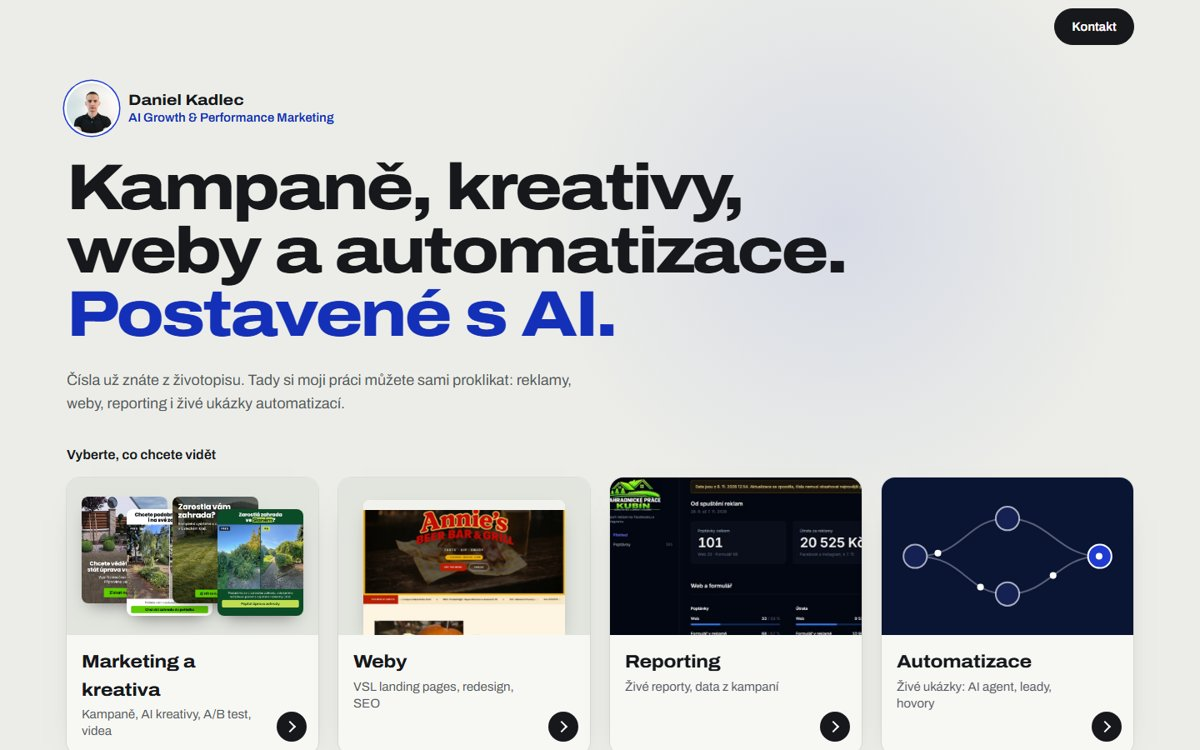
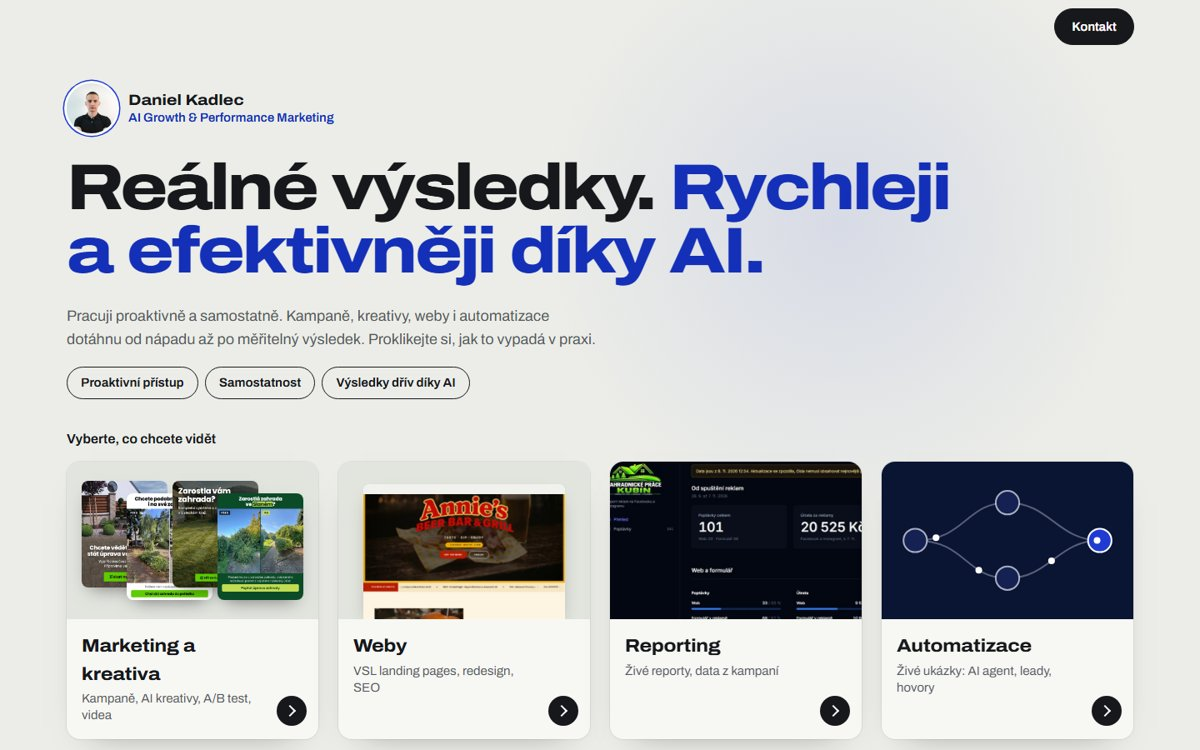
Novy uvod

diff --git a/index.html b/index.html
@@ -44,8 +44,13 @@
           <img class="person__img" src="assets/img/portret.webp" width="900" height="1252" alt="Daniel Kadlec" fetchpriority="high">
           <p><b>Daniel Kadlec</b><span>AI Growth &amp; Performance Marketing</span></p>
         </div>
-        <h1 class="hero-h" data-enter="2">Kampaně, kreativy, weby a automatizace. <span>Postavené s AI.</span></h1>
-        <p class="intro__lead" data-enter="3">Čísla už znáte z životopisu. Tady si moji práci můžete sami proklikat: reklamy, weby, reporting i živé ukázky automatizací.</p>
+        <h1 class="hero-h" data-enter="2">Reálné výsledky. <span>Rychleji a efektivněji díky AI.</span></h1>
+        <p class="intro__lead" data-enter="3">Pracuji proaktivně a samostatně. Kampaně, kreativy, weby, aplikace i automatizace dotáhnu od nápadu až po měřitelný výsledek. Proklikejte si, jak to vypadá v praxi.</p>
+        <ul class="hero-traits" role="list" data-enter="3">
+          <li>Proaktivní přístup</li>
+          <li>Samostatnost</li>
+          <li>Výsledky dřív díky AI</li>
+        </ul>
       </div>
     </div>
 

diff --git a/styles-v3.css b/styles-v3.css
@@ -182,3 +182,9 @@ body[data-route="automatizace"] .top__nav a[data-nav="provas"] { color: #fff; }
 .hero-h { font-size: clamp(34px, 5.4vw, 86px); line-height: .98; letter-spacing: -.04em; font-weight: 800; font-variation-settings: "wdth" 118; max-width: 17ch; text-wrap: balance; }
 .hero-h span { color: var(--cobalt-ink); white-space: nowrap; }
 @media (max-height: 800px) and (min-width: 1024px) { .hero-h { font-size: clamp(34px, 4.4vw, 68px); } }
+
+.hero-h { max-width: 20ch; }
+.hero-h span { white-space: normal; }
+.hero-traits { display: flex; flex-wrap: wrap; gap: 8px; margin-top: 18px; }
+.hero-traits li { border: 1.5px solid var(--ink); border-radius: 999px; padding: 7px 16px; font-weight: 650; font-size: 15px; }
+@media (max-width: 639px) { .hero-traits li { font-size: 14px; padding: 6px 12px; } }
